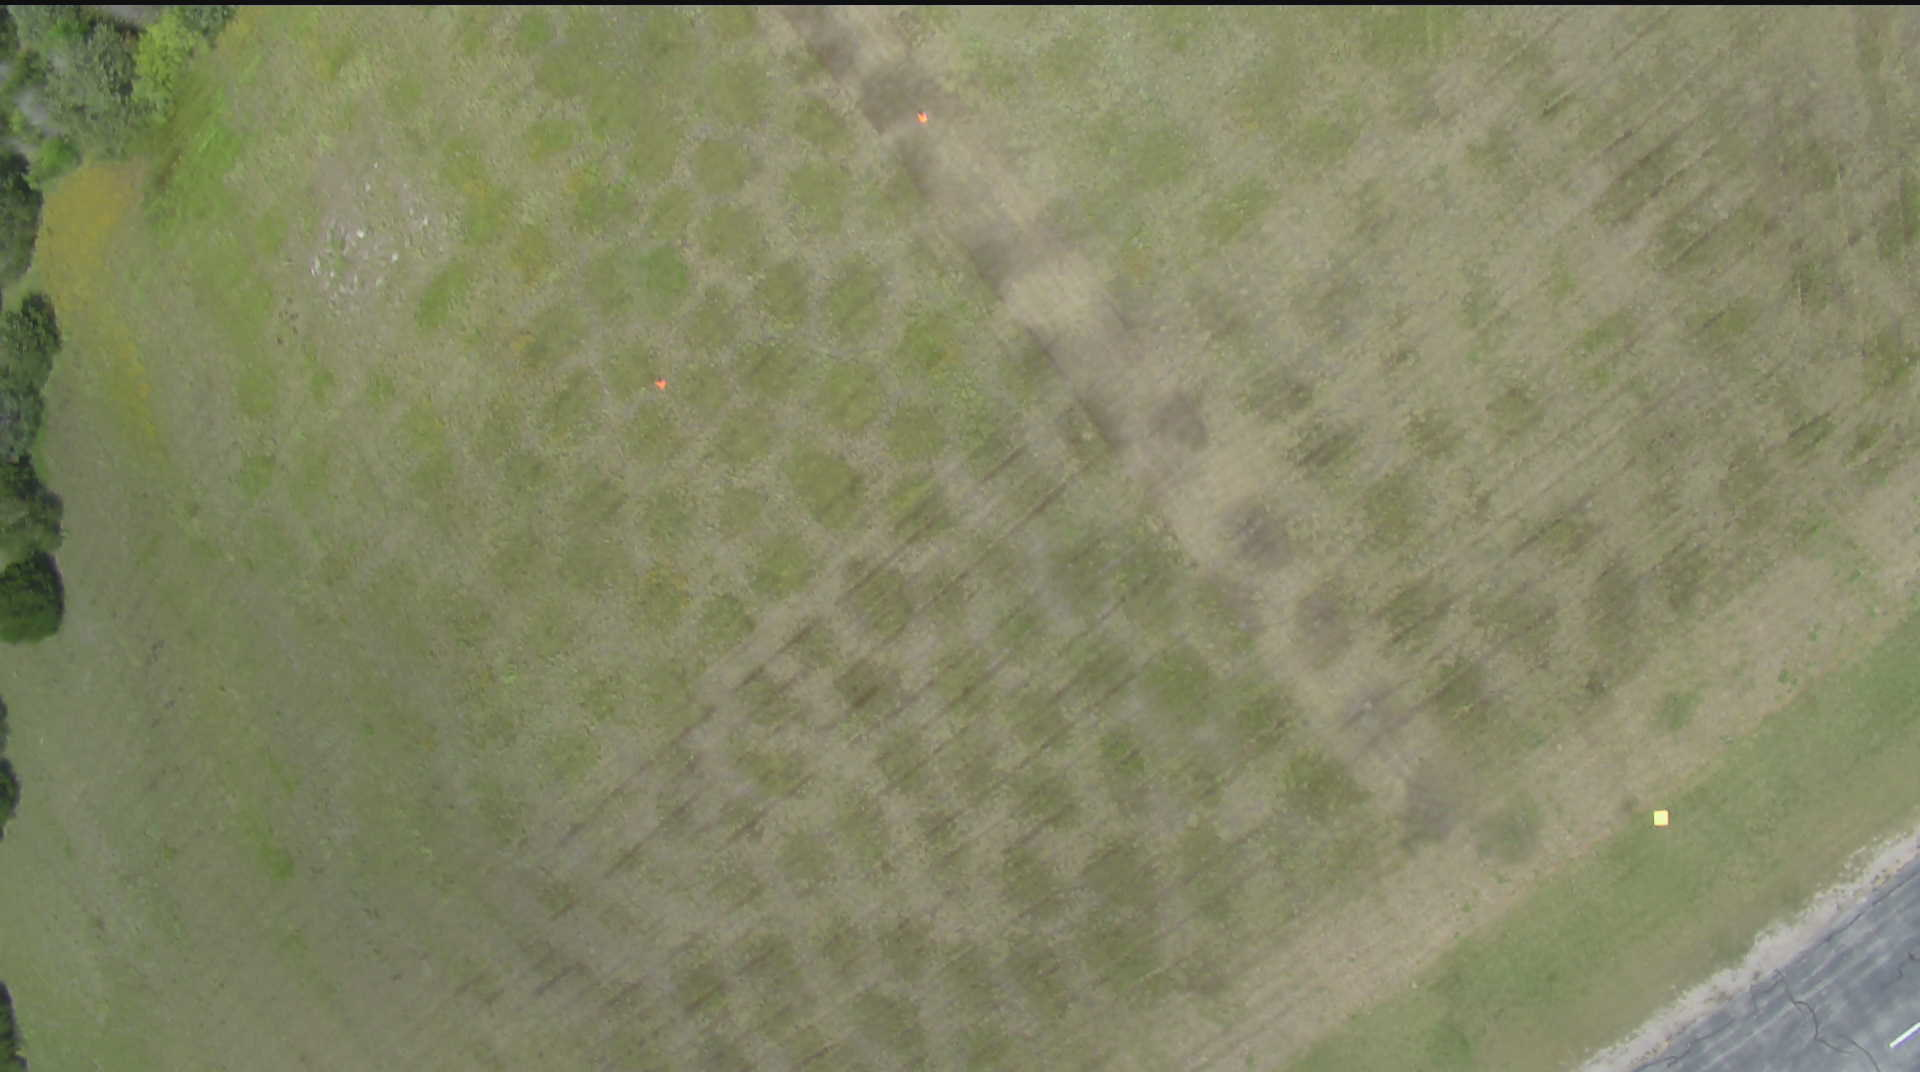
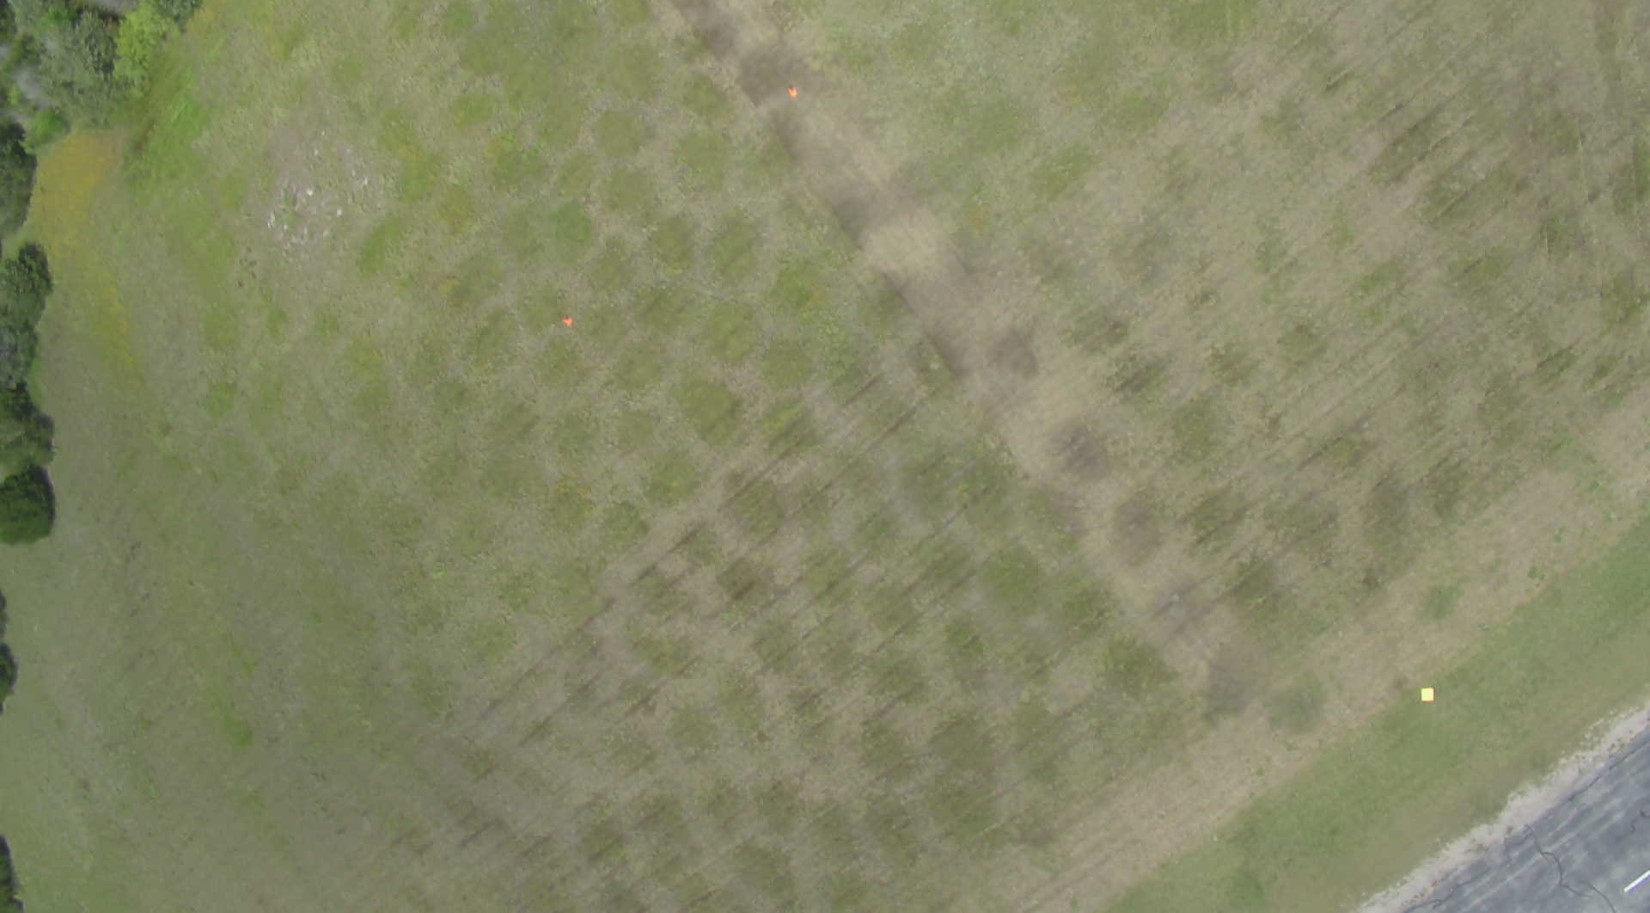
Write to folder enabled, Changes to semicircle detection, General Performance improvements

Changed region(s): [[0.0, 0.0, 1.0, 0.184], [0.0, 0.2453, 0.0309, 0.3067], [0.4636, 0.092, 0.4945, 0.1227]]

diff --git a/Cloud 10/PerfectCell.m b/Cloud 10/PerfectCell.m
@@ -1,6 +1,4 @@
-% Main
-
-function [] = PerfectCell( img )
+%function [] = PerfectCell( img, fileName )
 
 
 % Input: Any RGB image // Can be a direct frame from the camera // CANNOT BE ONLY BW
@@ -64,15 +62,20 @@ workspace;
 % img_shear = imread('images/test/shear7.jpg');
 % img_impossible = imread('images/test/impossible.jpg');  % Too much god damn noise
 % img_qr = imread('images/test/qr2.jpg');
-%img_test = imread('images/image-111.jpg');
+img_test = imread('images/image-115.jpg');
 
 % ******* Change the img assignment to debug with another image *******
 
-%img = img_test;
+img = img_test;
 
-% ******* Select Appropriate Mode *******
+% Special Crop to fix ffmpeg capture
+img = imcrop(img, [0 10 1920 1072]);
 
-mode = 0;       % 0 - Fast/Performance Mode     1 - Debugging Mode (Shows Approximations)
+% ******* Select Appropriate Modes *******
+
+mode = 1;       % 0 - Fast/Performance Mode     1 - Debugging Mode (Shows Approximations)
+
+writeEnable = 1;   % 0 - No Write               1 - shape written on disk
 
 % Use 0 for competition =)
 
@@ -88,7 +91,7 @@ thisImage = edge(a_gray, 'canny', filter);
 % Used to fill small holes/discontinuities
 se5 = strel('square', 5);
 se3 = strel('square', 3);
-se2 = strel('square', 2);
+%se2 = strel('square', 2);
 
 if mode
     subplot(2,2,3);
@@ -117,7 +120,7 @@ try
     
     %% ITERATIVE NOISE FILTER; loops until a shape is found or filter hits limit
     
-    while  repeat && filter >=  .40
+    while  repeat && filter >=  .50
         
         % thisImageThick is used to determine the boundary of a blob after dilating to fill holes (not displayed though)
         thisImageThick = imdilate(thisImage,se5);
@@ -190,7 +193,7 @@ try
                 numberOfWhite = sum(thisBlob(:));
                 
                 % If image is too small, skip to next blob
-                if numberOfWhite < 75
+                if numberOfWhite < 50
                     tryToFlip = 0;
                     tryToRotate = 0;
                     tryToShear = 0;
@@ -214,22 +217,7 @@ try
                 thisBlob = imdilate(thisBlob,se3);
                 thisBlob = imresize(thisBlob, [300 NaN], 'Method', 'bicubic') ;
                 thisBlob = imfill(thisBlob,'holes');
-                thisBlob = bwperim(thisBlob, 8);
-                
-                numberOfWhite = sum(thisBlob(:));
-                
-                if numberOfWhite < 75
-                    tryToFlip = 0;
-                    tryToRotate = 0;
-                    tryToShear = 0;
-                    flipped = 0;
-                    rotated = 0;
-                    sheared = 0;
-                    crossConfirm = 0;
-                    nothing = 0;
-                    z = z+1;
-                    continue
-                end
+                thisBlob = bwperim(thisBlob, 8);             
                 
             end
             
@@ -284,10 +272,10 @@ try
             
             if ( yolo/(goUntil-1) < yArray(1) )
                 start = 1;                      %GO UP FIRST
-                firstDirection = 'up';
+                %firstDirection = 'up';
             else
                 start = 0;                      %GO DOWN FIRST
-                firstDirection = 'down';
+                %firstDirection = 'down';
             end
             
             traversal = 0;
@@ -404,7 +392,7 @@ try
         
         % INCREMENT AND PROCESS NOISE FILTER
         if ~tryToFlip && ~tryToRotate && ~tryToShear
-            prevImage = thisImage;
+            %prevImage = thisImage;
             
             filter = filter - .10;
             thisImage = edge(a_gray, 'canny', filter);
@@ -482,7 +470,7 @@ if length(cornersArray) >= 3 && ~strcmp(shape, 'Empty')
         c = [yArray(cornersArray(1,1)) yArray(cornersArray(1,2)) yArray(cornersArray(2,2)) yArray(cornersArray(3,2))];
     end
     
-    [height, width, dim] = size(croppedOutput);
+    [height, width, ~] = size(croppedOutput);
     masked = roipoly(thisBlob,r,c);
     r_masked = imresize(masked,[height width], 'Method', 'bicubic');
     maskedOutput = bsxfun(@times, croppedOutput, cast(r_masked, 'like', croppedOutput));
@@ -519,18 +507,13 @@ if strcmp(shape,'Square') || strcmp(shape,'Rectangle')
     end
 end
 
-% Attempt at OCR
 
-% thisBlob = imfill(thisBlob, [186 149], 4);
-% thisBlob = bwmorph(thisBlob, 'thin', 'inf');
-% thisBlob = imrotate(thisBlob, 35);
-% close all;
-% imshow(thisBlob);
-% thisBlob = imcrop(thisBlob);
-% thisBlob = imdilate(thisBlob,se5);
-% thisBlob = padarray(thisBlob,[500 500]);
-% ocr(thisBlob)
-% imshow(thisBlob);
 
+% Flush display buffer
+drawnow('update');
+
+if writeEnable && ~strcmp(shape, 'Empty')
+    saveas(gcf, strcat('images_results/',fileName))
+end
 
 why

diff --git a/Cloud 10/ShapeRunnerTest.m b/Cloud 10/ShapeRunnerTest.m
@@ -15,7 +15,7 @@ while true,
         img_orig = imread(['images/' file.name]);
         %imshow(img_orig);
         %figure()
-        PerfectCell(img_orig)
+        PerfectCell(img_orig, file.name)
         images_processed{end+1} = file.name;
     end
 end
